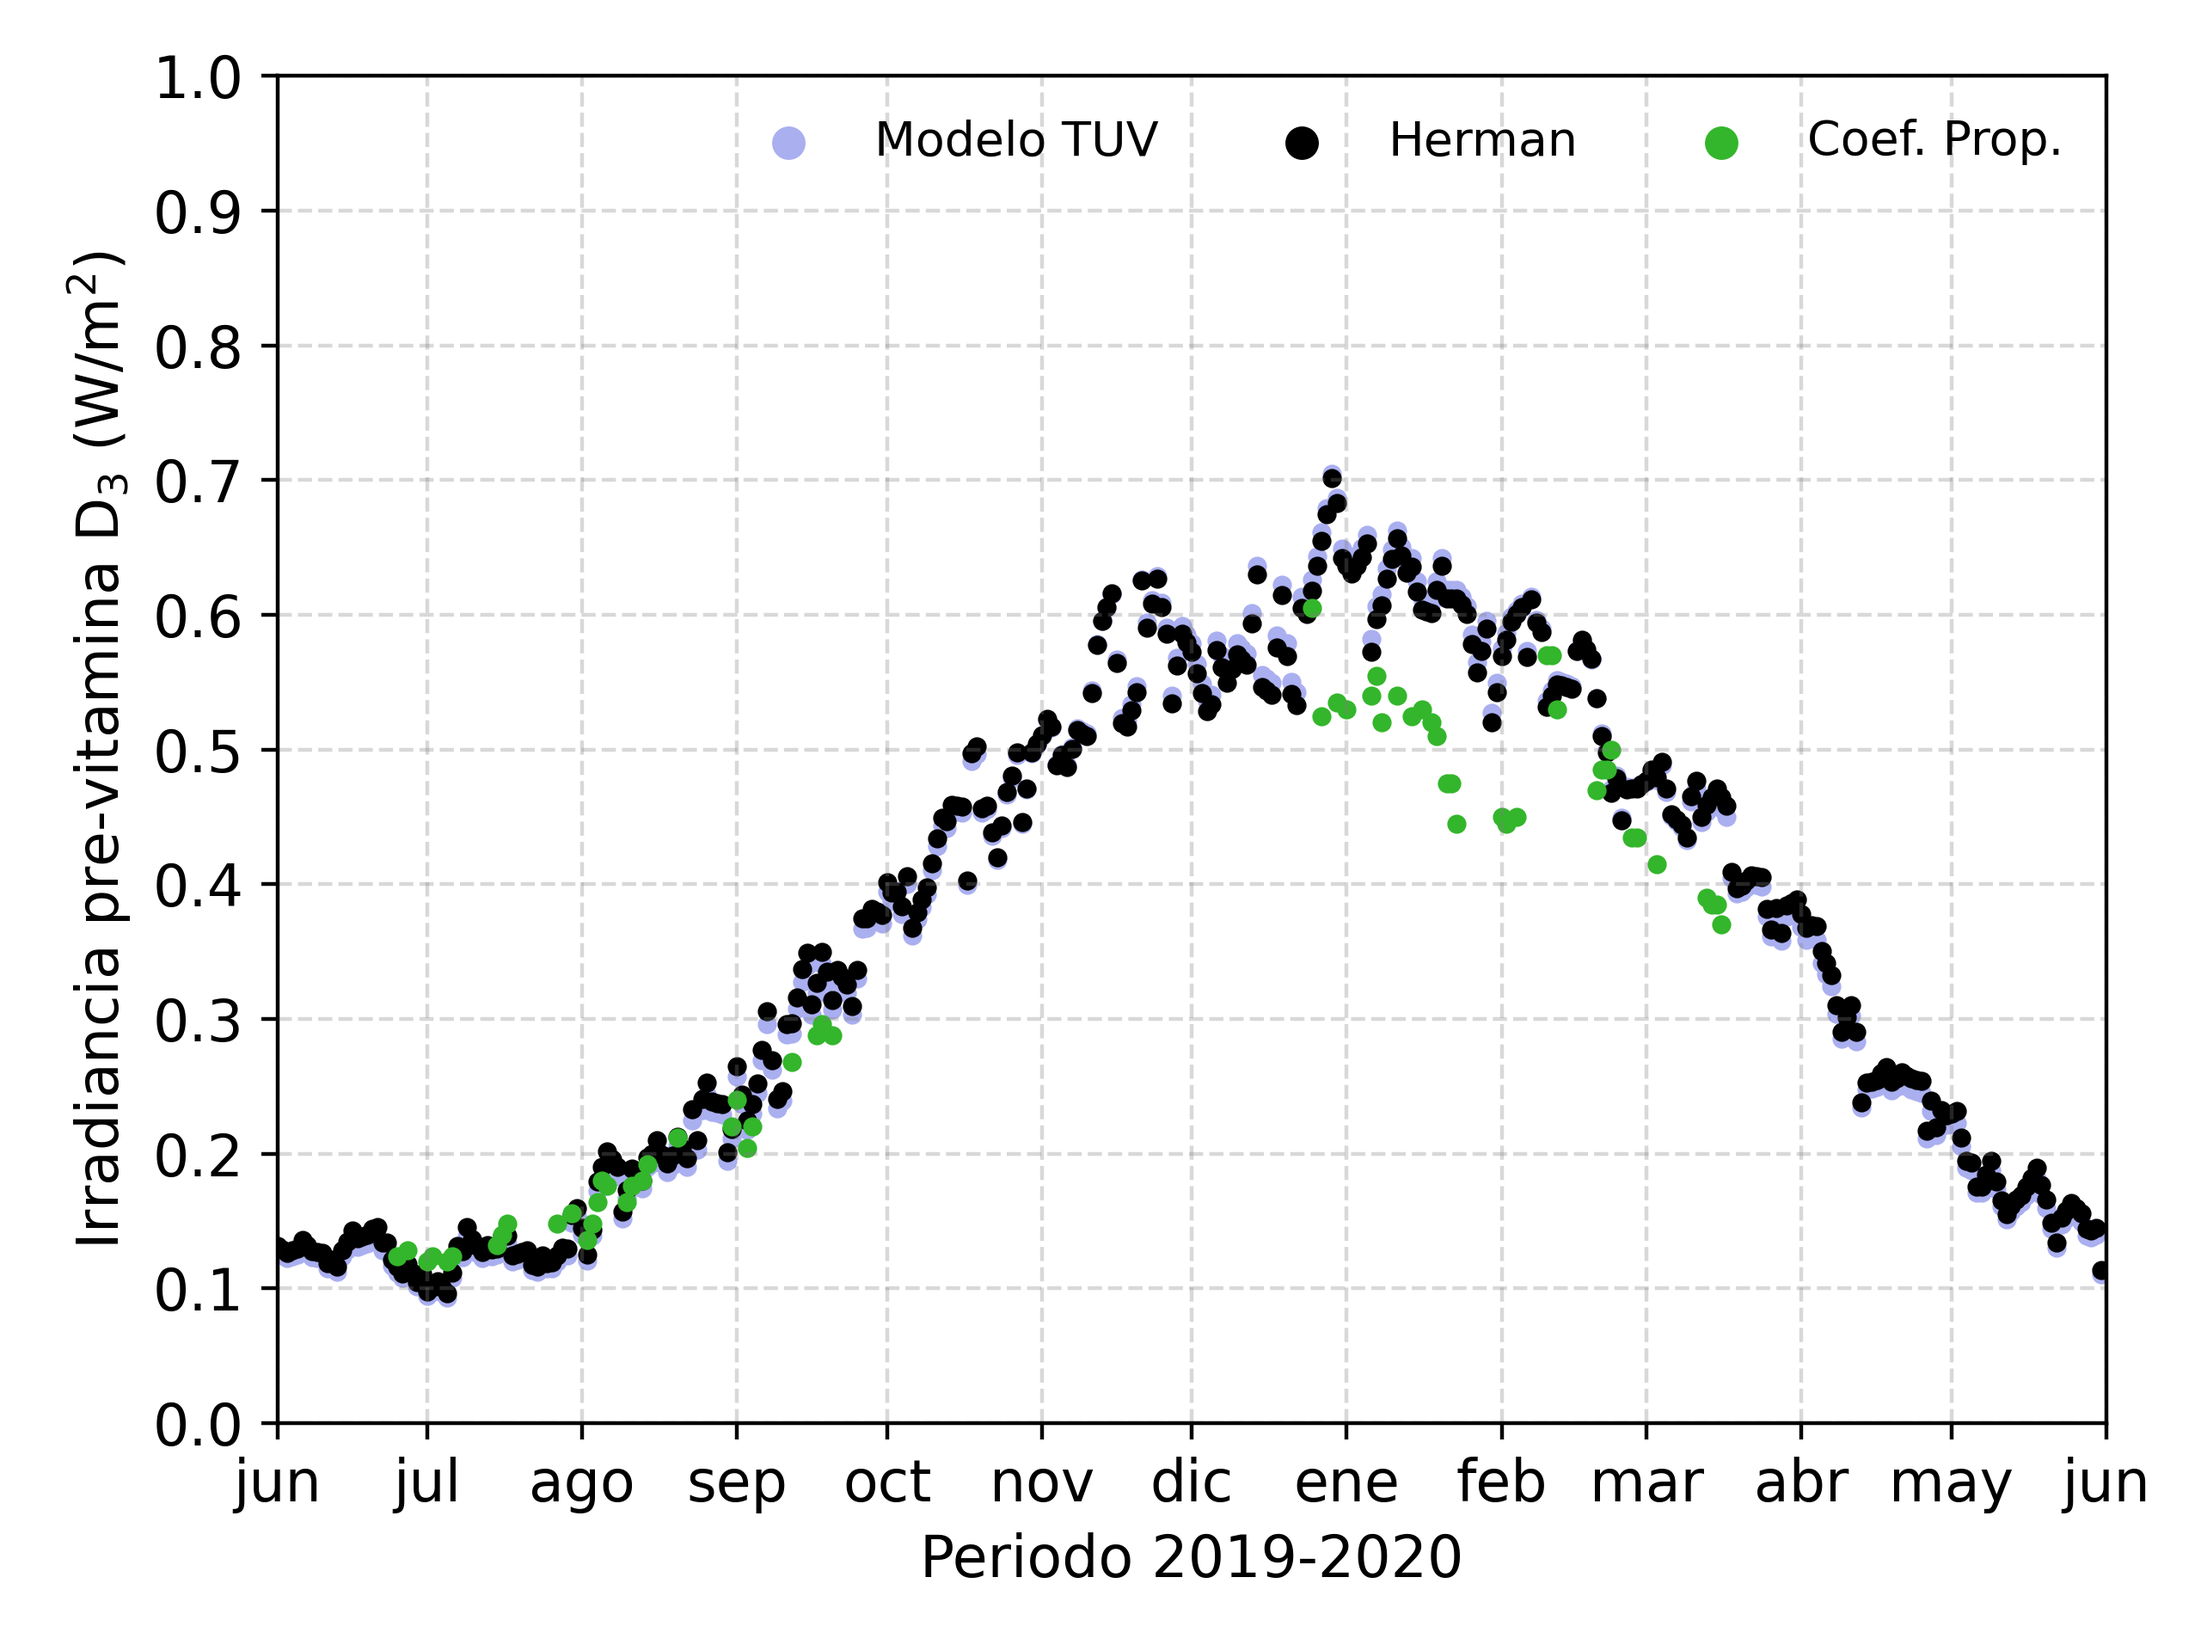
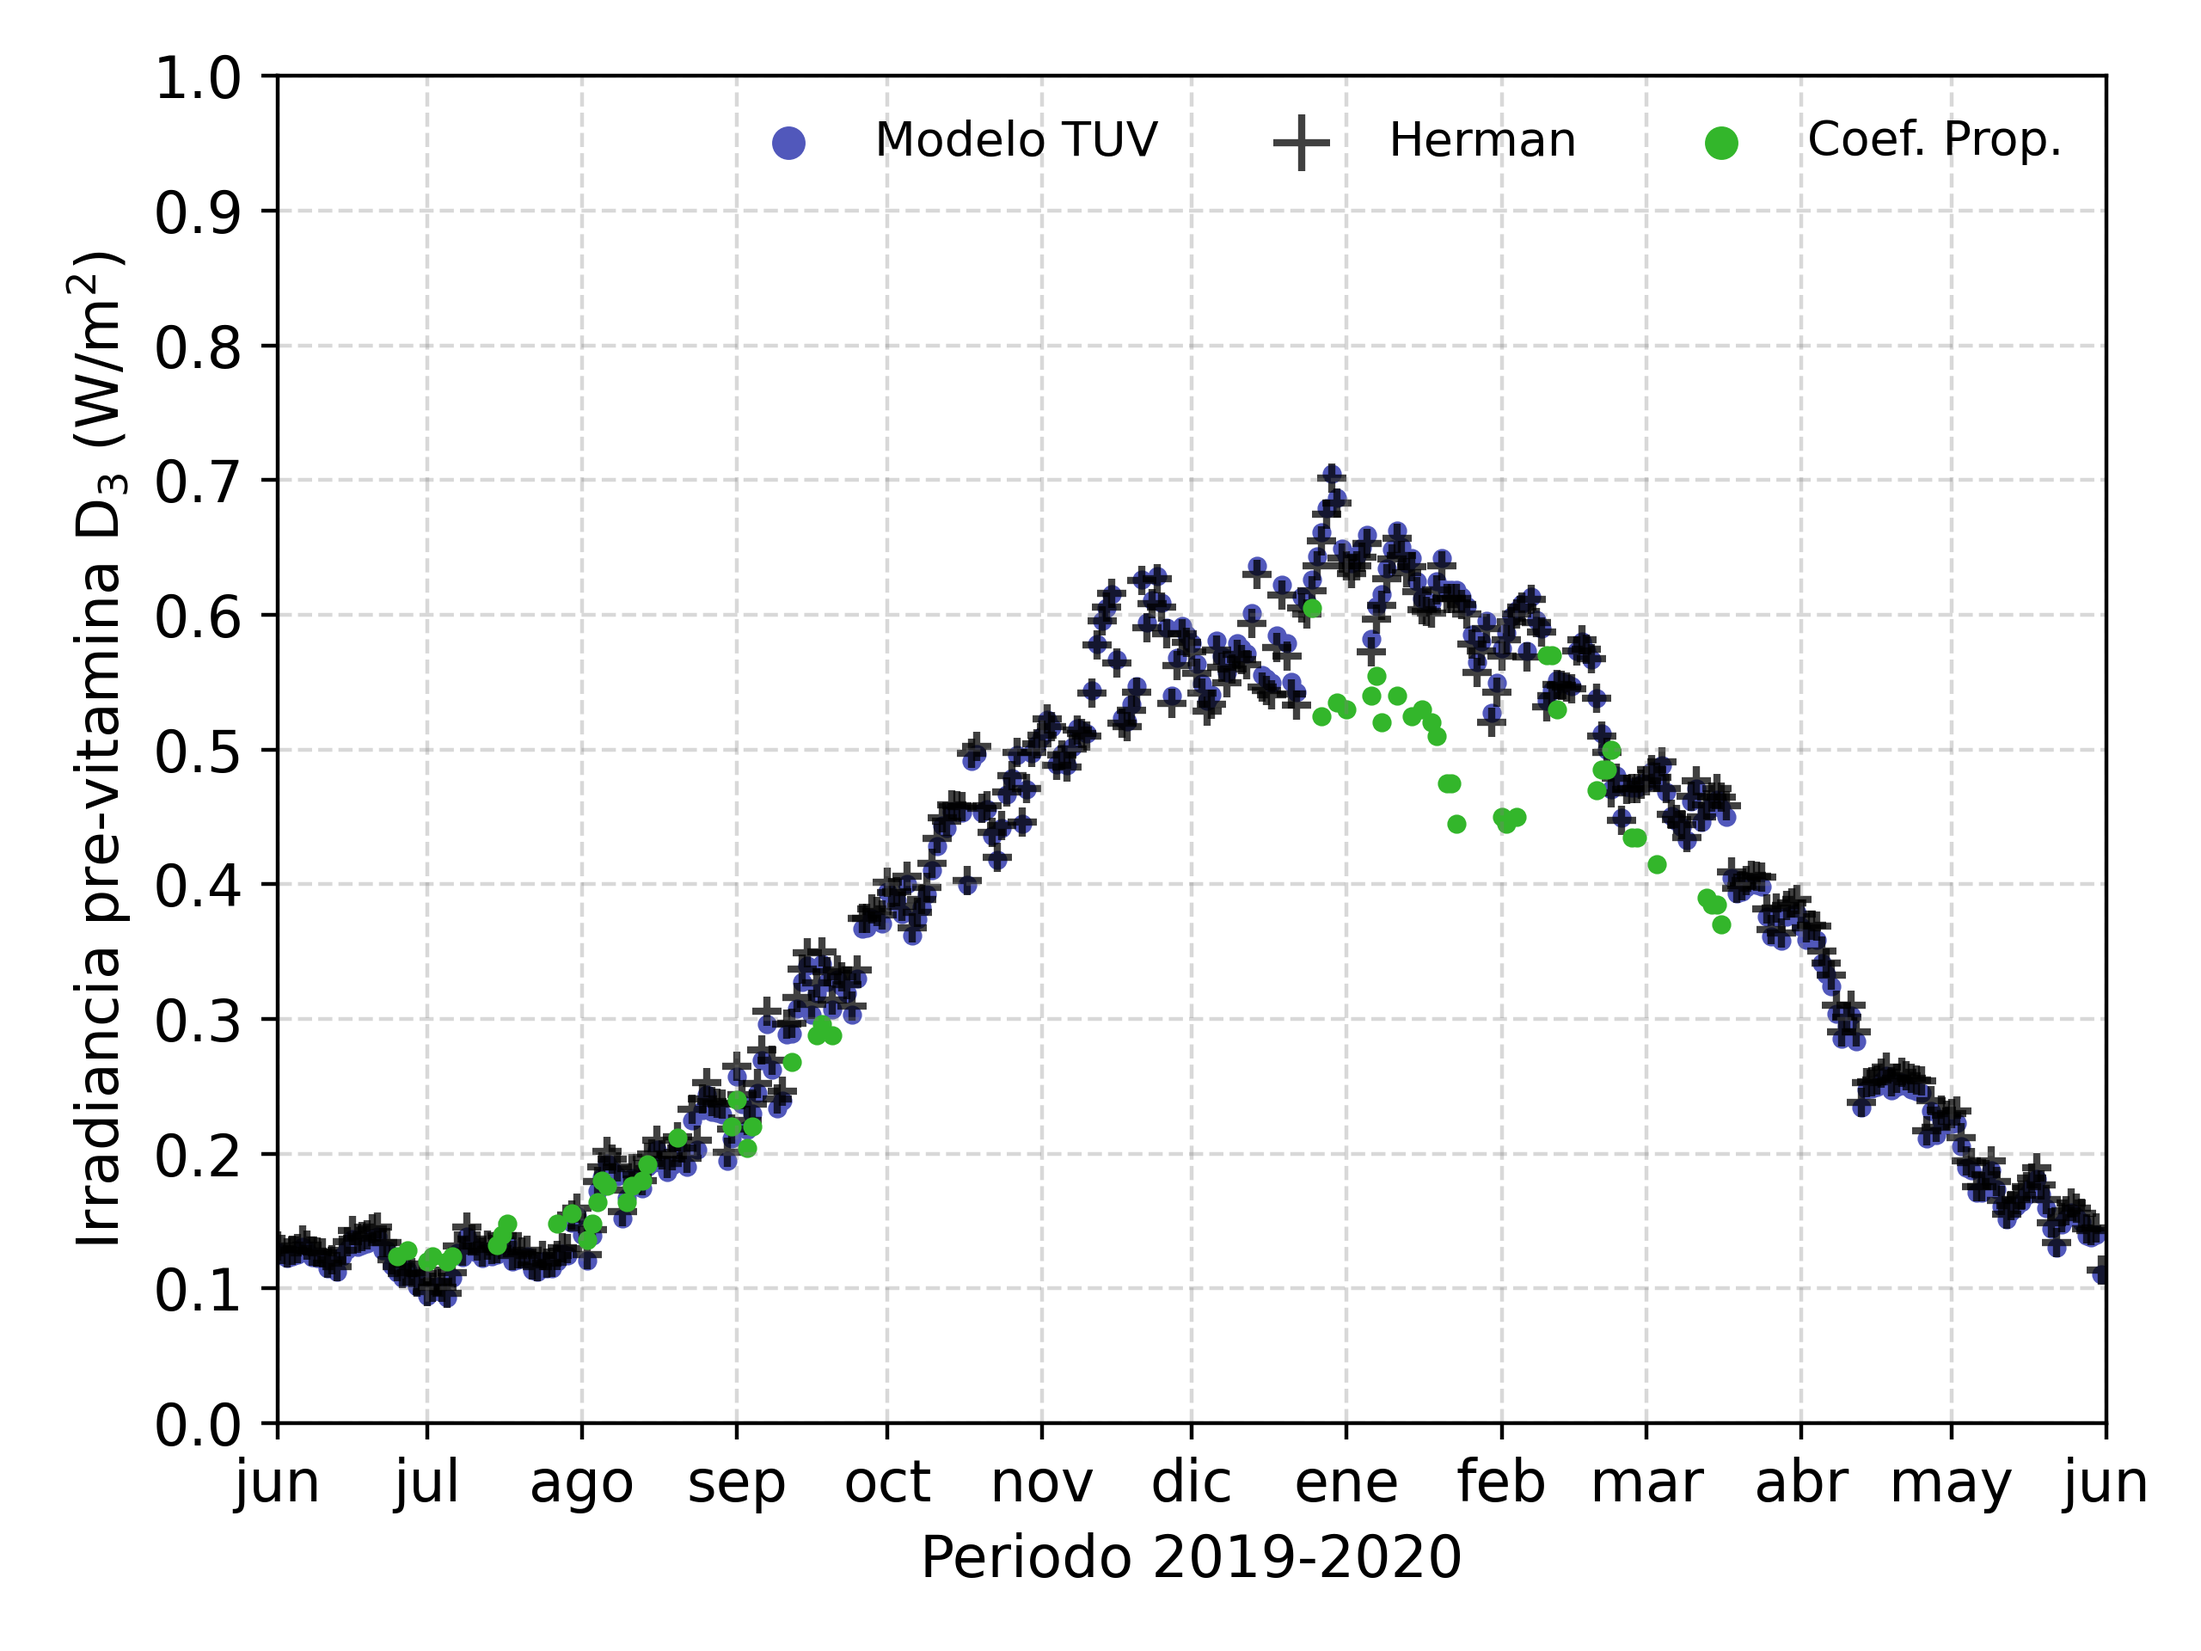
Chnage for + on Herman data

Changed region(s): [[0.125, 0.2812, 0.9688, 0.8125], [0.5625, 0.0625, 0.625, 0.0938], [0.3438, 0.0625, 0.375, 0.0938]]

diff --git a/Scripts/Graphics_max_pre_vitamin_d.py b/Scripts/Graphics_max_pre_vitamin_d.py
@@ -21,13 +21,14 @@ data_CIE = read_data(parameters["path data"],
                      parameters["CIE data"])
 data_CIE = format_CIE_data(data_CIE)
 plt.scatter(data.index, data["Vitamin D"],
-            c="#aaaff0",
+            c="#5158BB",
             label="Modelo TUV",
             marker=".")
 plt.scatter(data_Herman.index, data_Herman["Herman"],
             c="#000000",
             label="Herman",
-            marker=".")
+            marker="+",
+            alpha=0.75)
 plt.scatter(data_CIE.index, data_CIE["CIE-2014"],
             c="#33B62B",
             label="Coef. Prop.",
